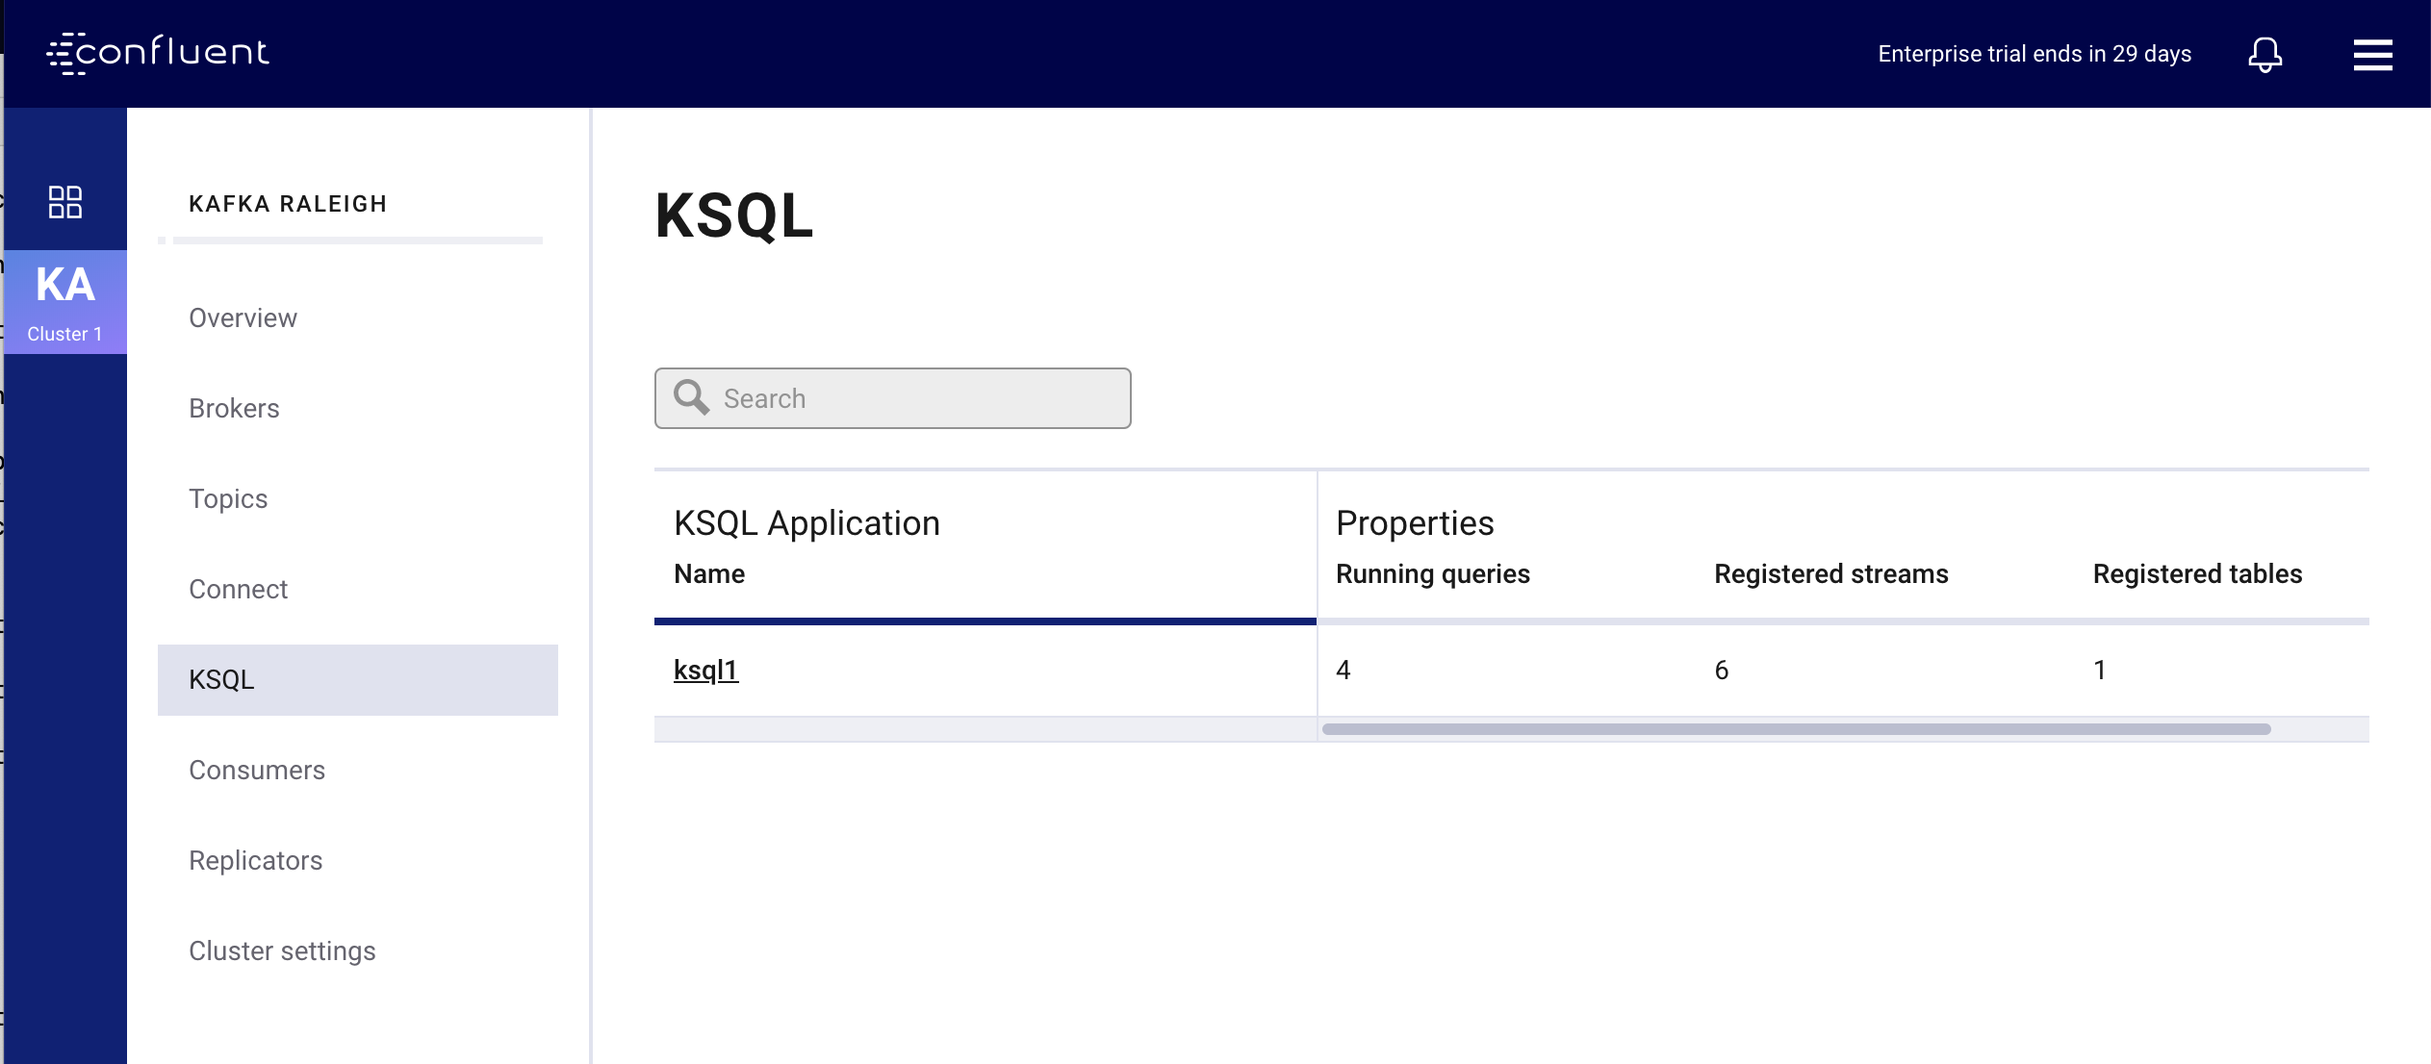
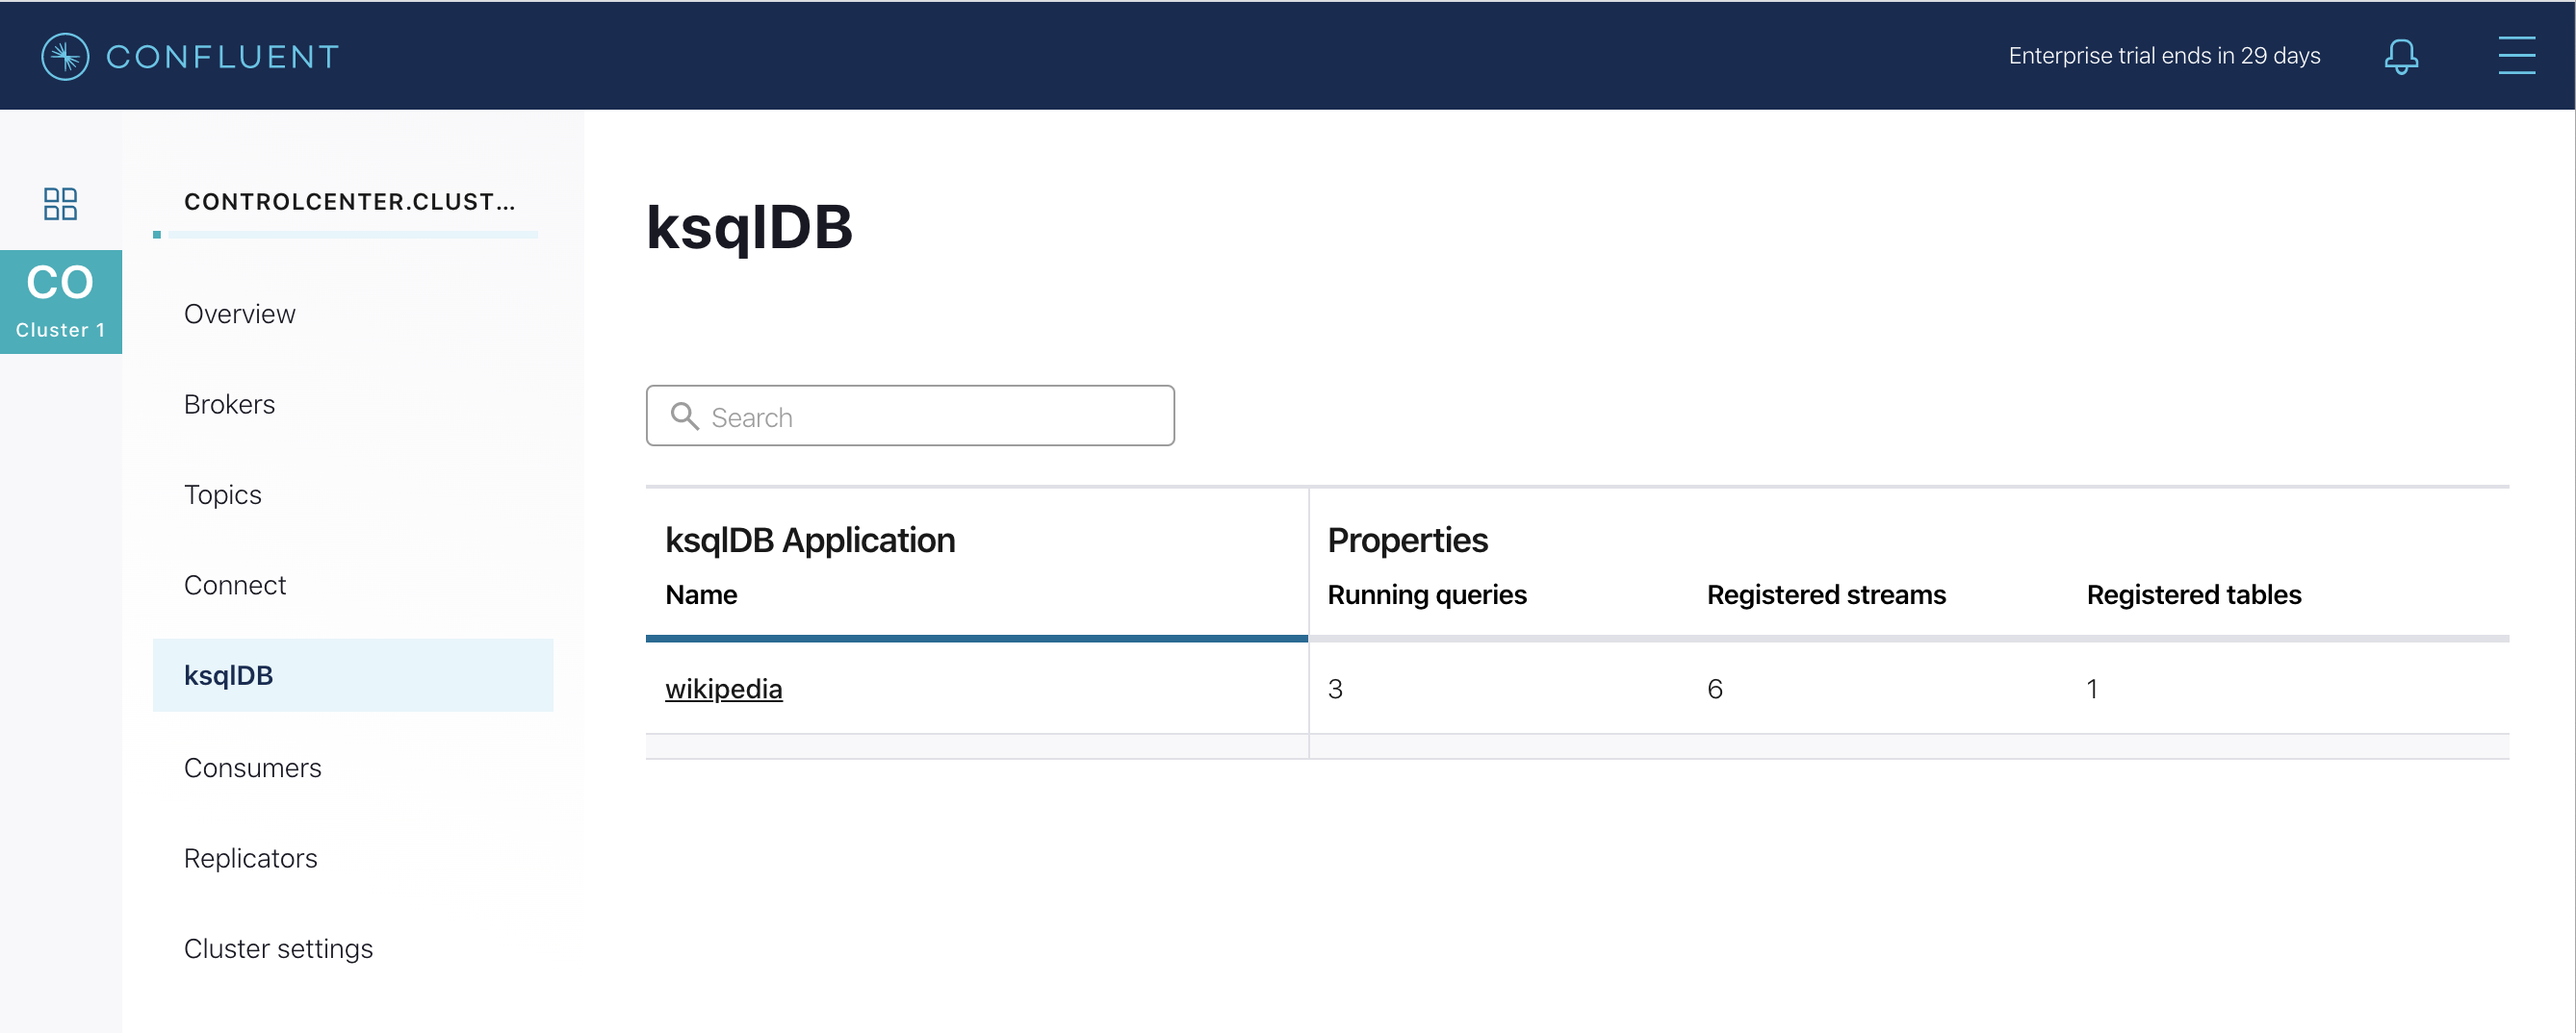
DEVX-1652: Replace deprecated way to name ksqlDB cluster in C3 config

Changed region(s): [[0.0, 0.0, 1.0, 1.0], [0.247, 0.676, 0.9572, 0.7374], [0.247, 0.1844, 0.3397, 0.2458]]

diff --git a/docs/index.rst b/docs/index.rst
@@ -263,7 +263,7 @@ In this demo, KSQL is authenticated and authorized to connect to the secured Kaf
 
 #. In the navigation bar, click **KSQL**.
 
-#. From the list of KSQL applications, select ``ksql1``.
+#. From the list of KSQL applications, select ``wikipedia``.
 
    .. figure:: images/ksql_link.png
       :alt: image
